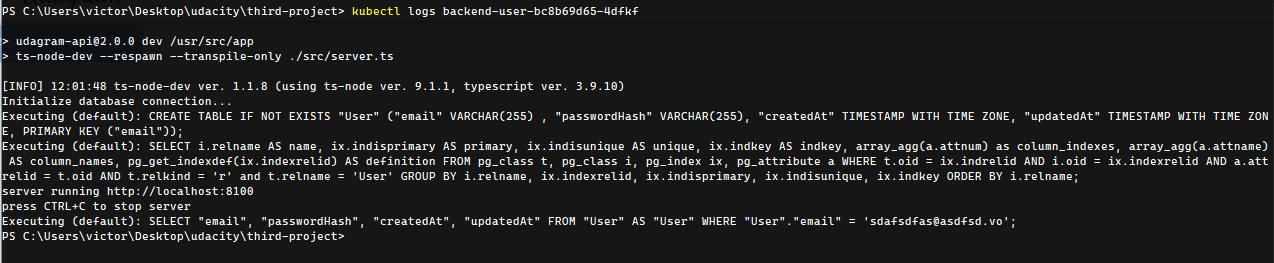
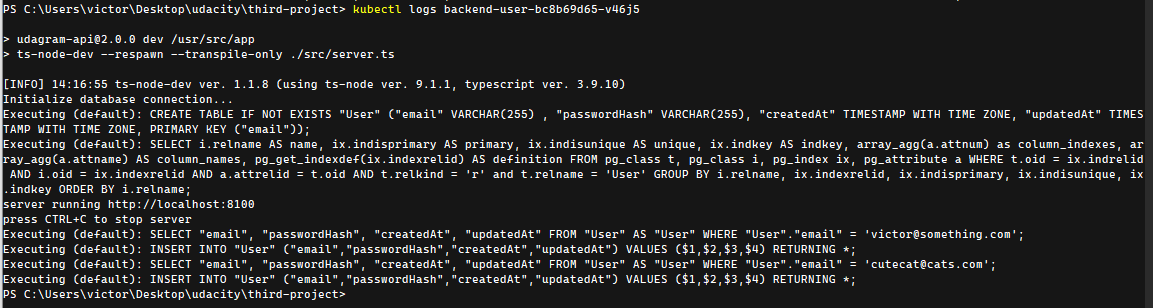
we're all set now

Changed region(s): [[0.0, 0.0913, 0.9991, 0.9734], [0.0, 0.0, 0.562, 0.0608]]

diff --git a/README.md b/README.md
@@ -30,6 +30,7 @@ kubectl describe services
 ![Image](./screenshots/describe_svc_3.png)
 
 * Verifies that horizontal scaling is set against CPU usage
+P.S. a metrics server had to be installed
 ```bash
 kubectl describe hpa
 ```
@@ -41,3 +42,10 @@ kubectl describe hpa
 kubectl logs {pod_name}
 ```
 ![Image](./screenshots/logging_activity.png)
+
+
+## Successful Deployment
+* Screenshots showing interaction with the app
+![Image](./screenshots/successful_deployment_1.png)
+![Image](./screenshots/successful_deployment_2.png)
+
